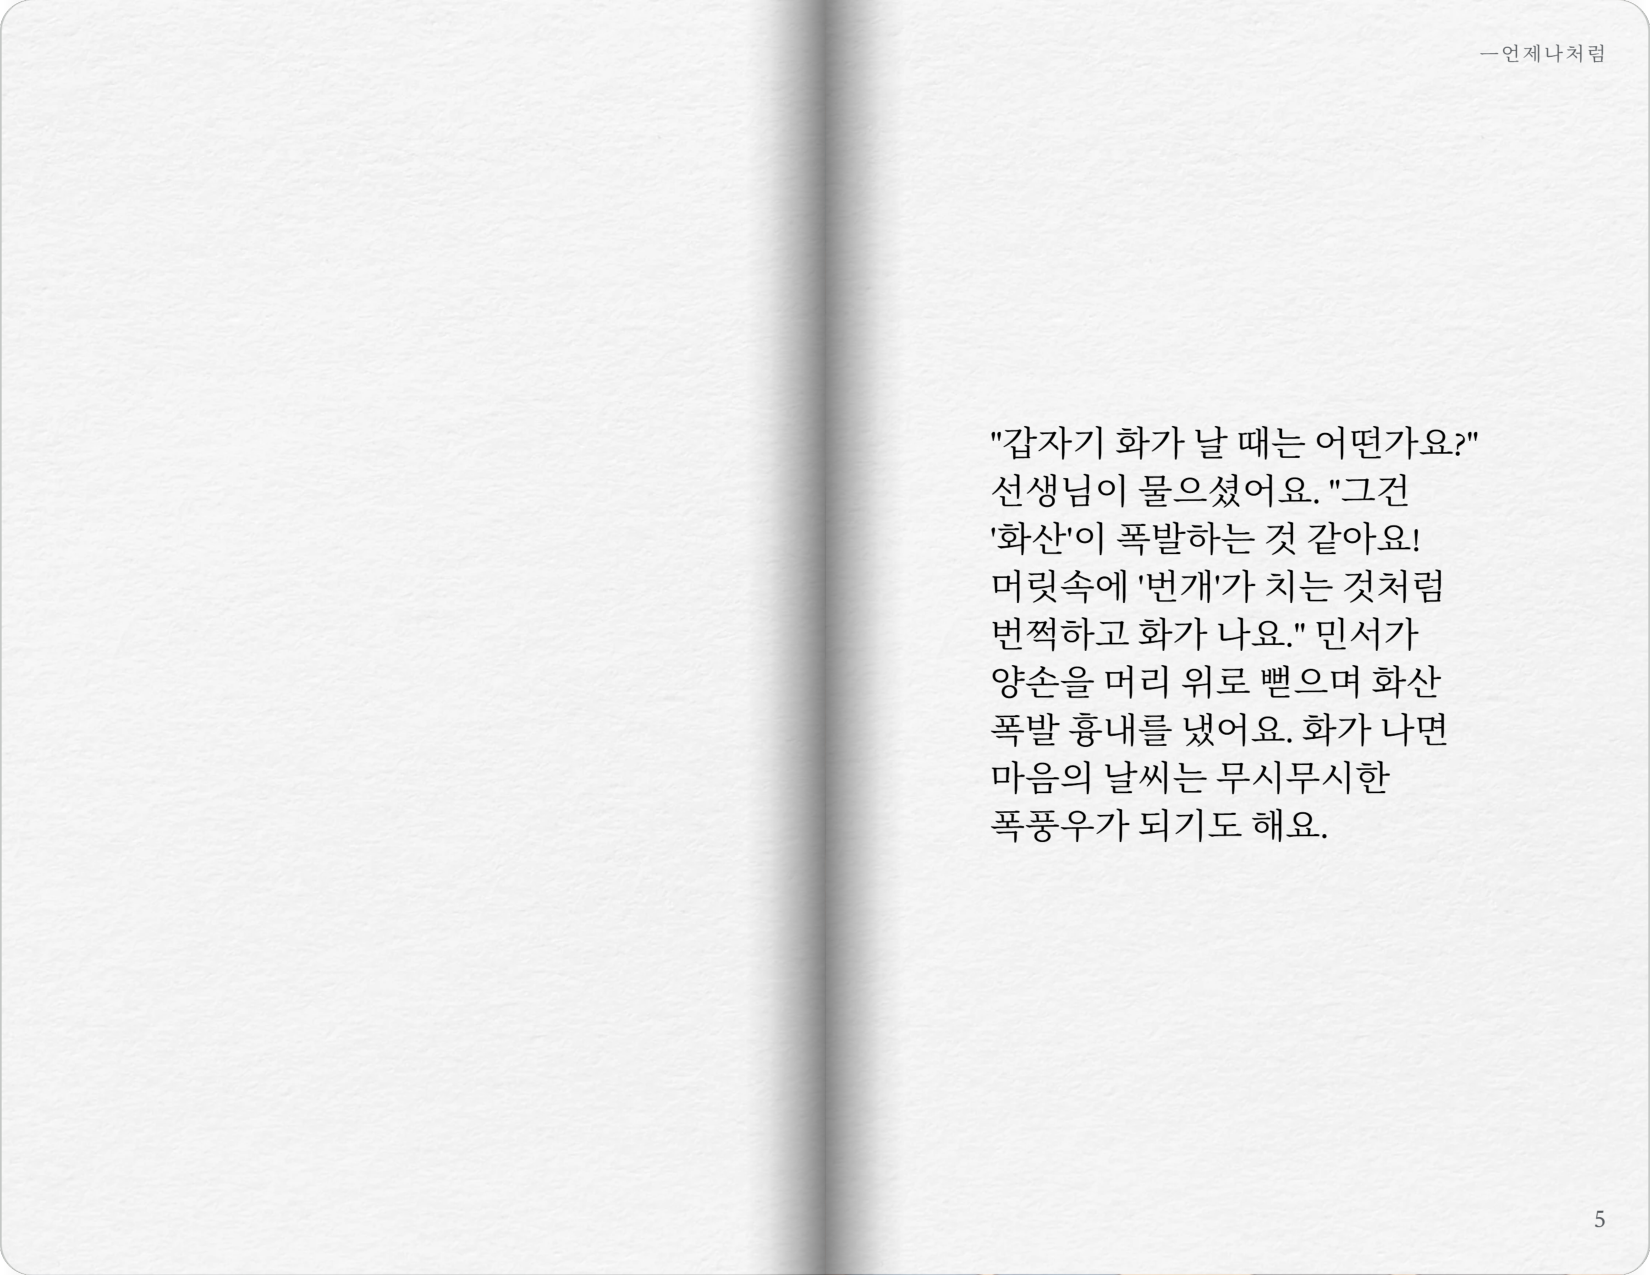
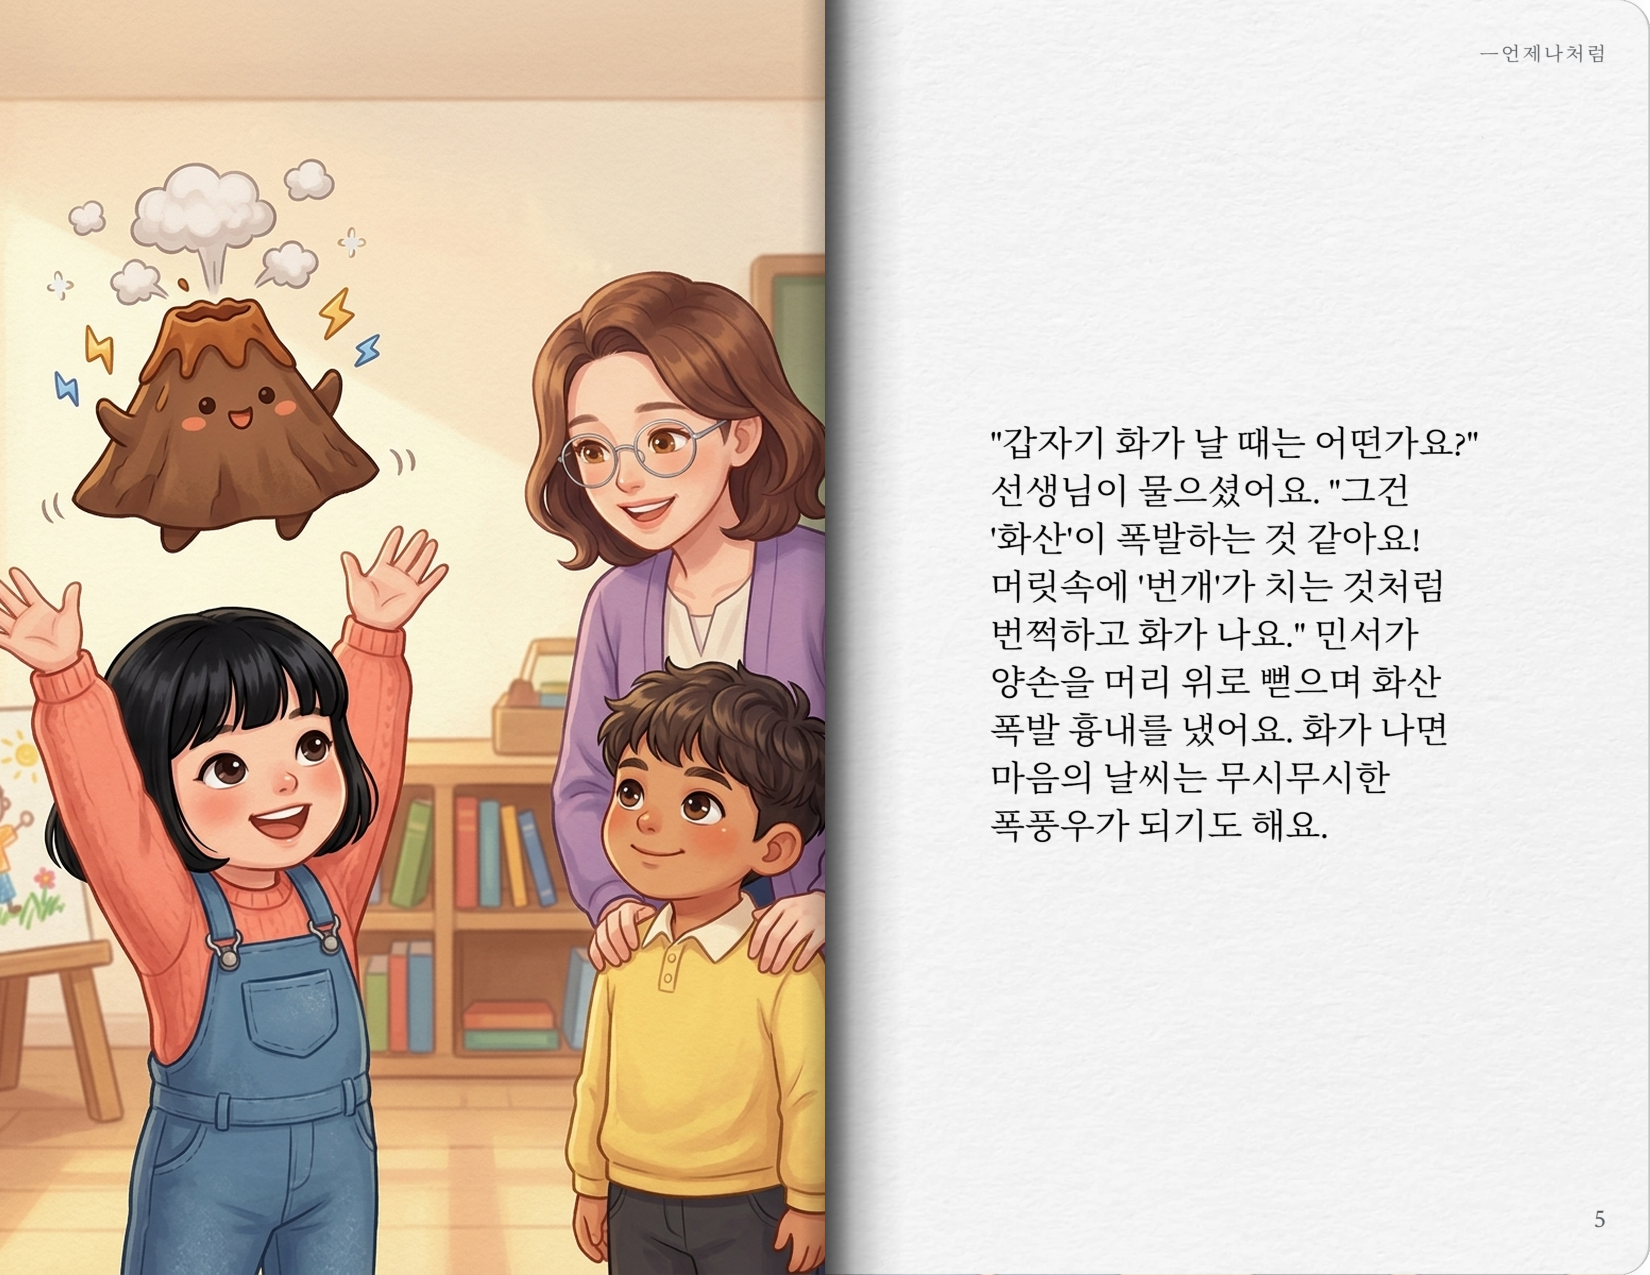
fix: 국어 스토리북 1권 5쪽(화산 흉내 장면) 맞춤 일러스트 생성 및 합성 배치

diff --git a/kids/subjects/korean/korean_1_2_1_storybook.html b/kids/subjects/korean/korean_1_2_1_storybook.html
@@ -446,7 +446,7 @@
     function renderEbook() {
         const item = STORY_DATA[currentPageIndex];
         const img = document.getElementById('ebookImg');
-        img.src = `${item.img}?v=20260902_audio`;
+        img.src = `${item.img}?v=20260902_volcano`;
         document.getElementById('pageIndicator').textContent = `${item.page} / ${STORY_DATA.length} 쪽`;
 
         document.getElementById('prevBtn').disabled = (currentPageIndex === 0);
@@ -520,7 +520,7 @@
                         🔊 이 장면 듣기
                     </button>
                 </div>
-                <img class="webtoon-img" src="${item.img}?v=20260902_audio" alt="${item.tag}">
+                <img class="webtoon-img" src="${item.img}?v=20260902_volcano" alt="${item.tag}">
                 <div class="webtoon-body">
                     ${item.textHtml}
                 </div>
